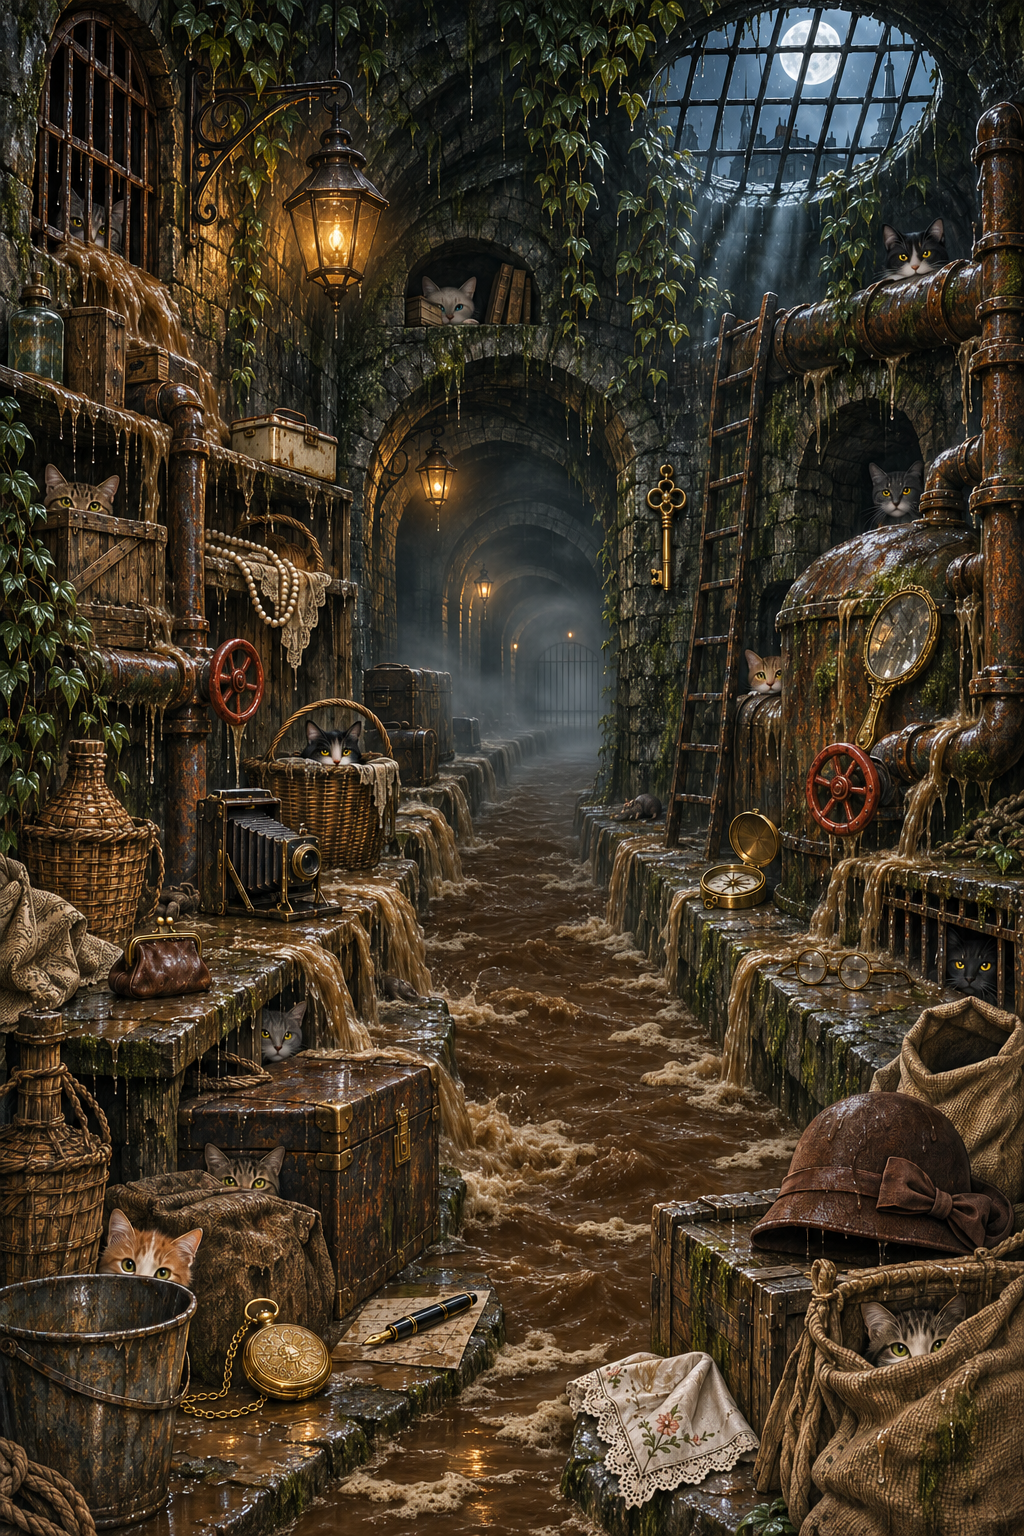
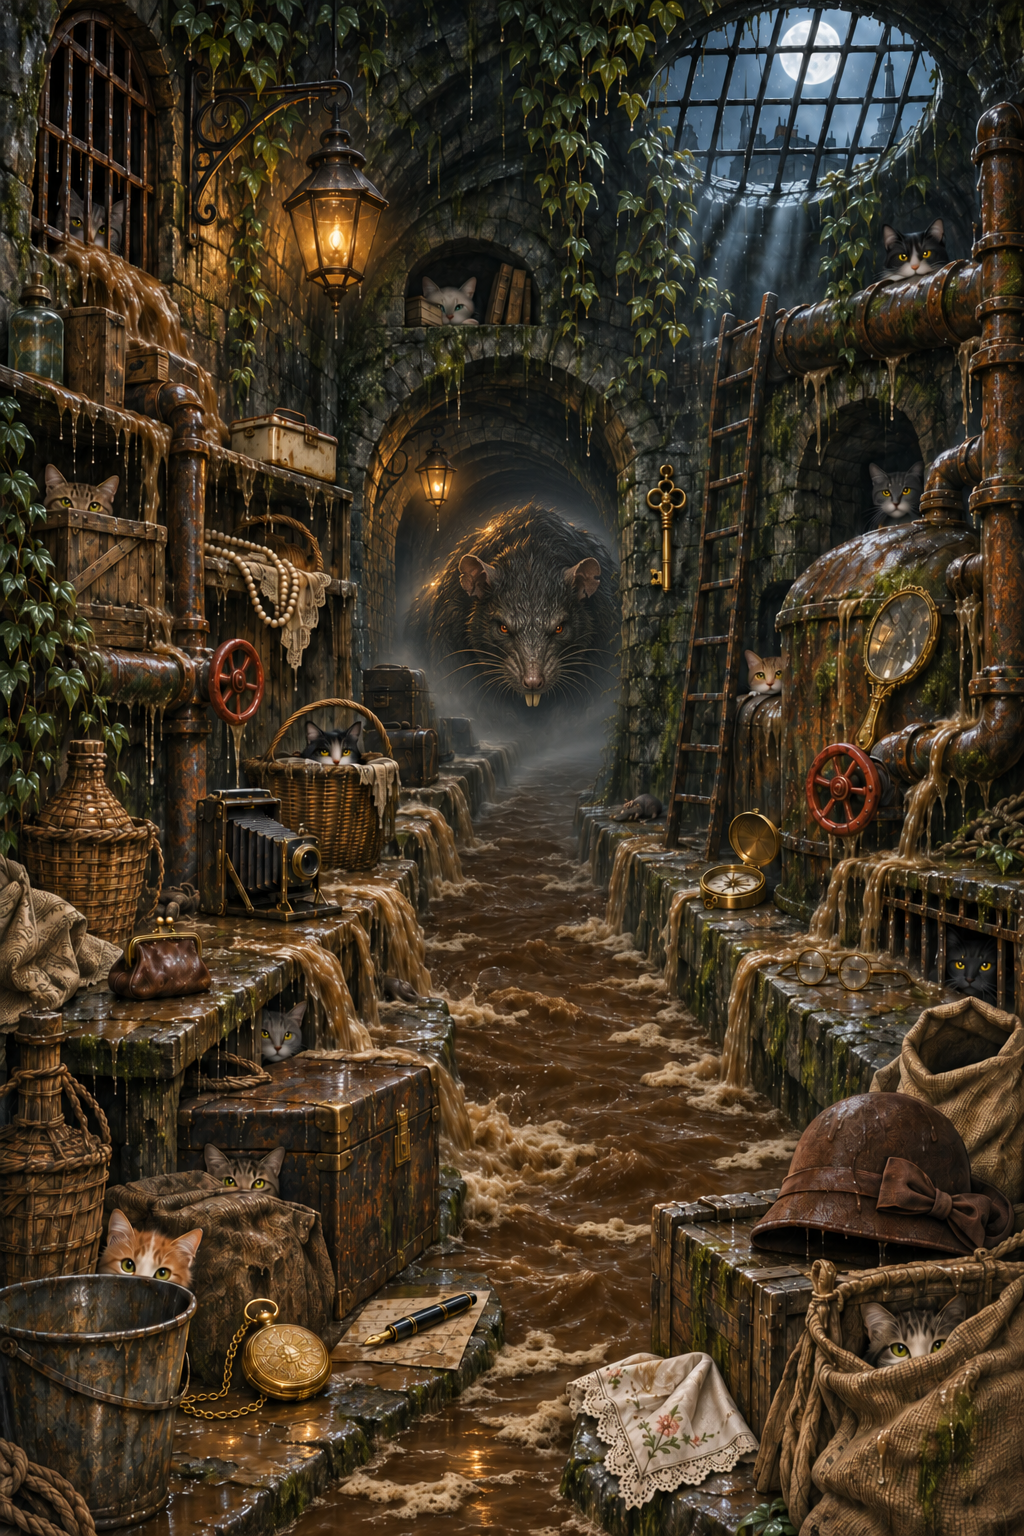
Ajouter un rat geant menacant au fond des egouts

diff --git a/sewers.js b/sewers.js
@@ -38,7 +38,7 @@ function pause(value){el('effects').setAttribute('data-paused',String(value))}
 function update(dt){elapsed=Math.min(duration,elapsed+dt);relief=Math.max(0,relief-dt*.35);water=Math.max(0,elapsed/duration*100-relief);if(elapsed>=duration){water=100;display();el('effects').classList.add('flooded');Garage.fail('GAME OVER — Temps écoulé ! L’eau sale, marron et boueuse envahit les passages. Virgin et les chats se réfugient plus haut. Il fallait retrouver les 12 chats et les 12 objets de 1925 en trois minutes.');return}display();if(water>=80&&!warned){warned=true;Garage.say('Dernières secondes ! L’eau boueuse monte dans les passages.')}if(water<70)warned=false}
 function found(){relief=Math.min(25,relief+3);water=Math.max(0,elapsed/duration*100-relief);display()}
 function tap(x,y,width,height){let valve=valves.find(v=>((x-v.x)/Math.max(v.rx,14/width))**2+((y-v.y)/Math.max(v.ry,14/height))**2<=1);if(!valve)return false;if(valve.used){Garage.say('Cette vanne est déjà ouverte. Cherche l’autre si l’eau remonte.');return true}if(water<10){Garage.say('Garde cette vanne pour plus tard, quand l’eau sera montée.');return true}valve.used=true;relief=Math.min(50,relief+35);water=Math.max(0,elapsed/duration*100-relief);if(typeof Adventure!=='undefined')Adventure.reward('valve',valve.id);display();tone(320,.25,'triangle');Garage.say('La vanne s’ouvre ! L’eau boueuse redescend un moment. Le chronomètre continue !');return true}
-const config={id:'sewers',chapter:7,title:'Les égouts de 1925',image:'assets/sewers-manga.png',alt:'Égouts de Paris en manga : passages étroits, rats, douze chats cachés et douze objets perdus vers 1925.',items,cats,start:reset,update,pause,found,tap,welcome:'3 minutes pour 12 chats et 12 objets de 1925. Les vannes font baisser l’eau, sans arrêter le chrono !',ending:'Les douze chats ont trouvé un passage sec. Les objets de 1925 sont sauvés des eaux.'};
+const config={id:'sewers',chapter:7,title:'Les égouts de 1925',image:'assets/sewers-manga.png',alt:'Égouts de Paris en manga : passages étroits, rat géant menaçant dans le tunnel du fond, douze chats cachés et douze objets perdus vers 1925.',items,cats,start:reset,update,pause,found,tap,welcome:'3 minutes pour 12 chats et 12 objets de 1925. Les vannes font baisser l’eau, sans arrêter le chrono !',ending:'Les douze chats ont trouvé un passage sec. Les objets de 1925 sont sauvés des eaux.'};
 function start(){Garage.start(config)}
 document.getElementById('sewers-start').onclick=start;document.getElementById('garage-next-sewers').onclick=()=>{if(!Garage.inspect().complete||Garage.inspect().chapter!==6)return;if(typeof Adventure!=='undefined')Adventure.advance();else start()};
 return{start,get active(){return Garage.active&&Garage.inspect().chapter===7},inspect:()=>({...Garage.inspect(),water,grace,elapsed,duration,remaining:Math.max(0,duration-elapsed),valves:valves.map(v=>({...v}))})};
